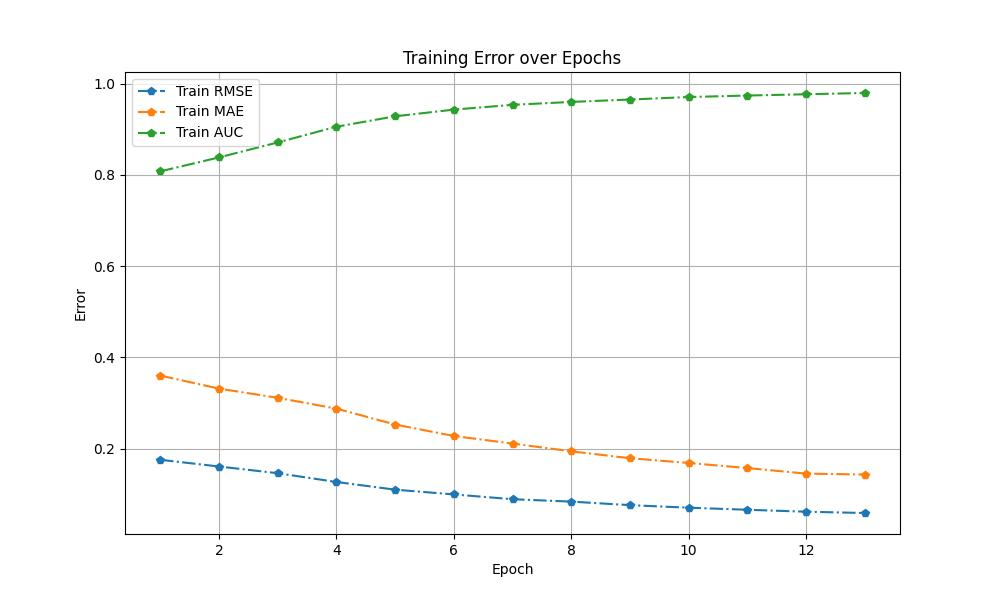
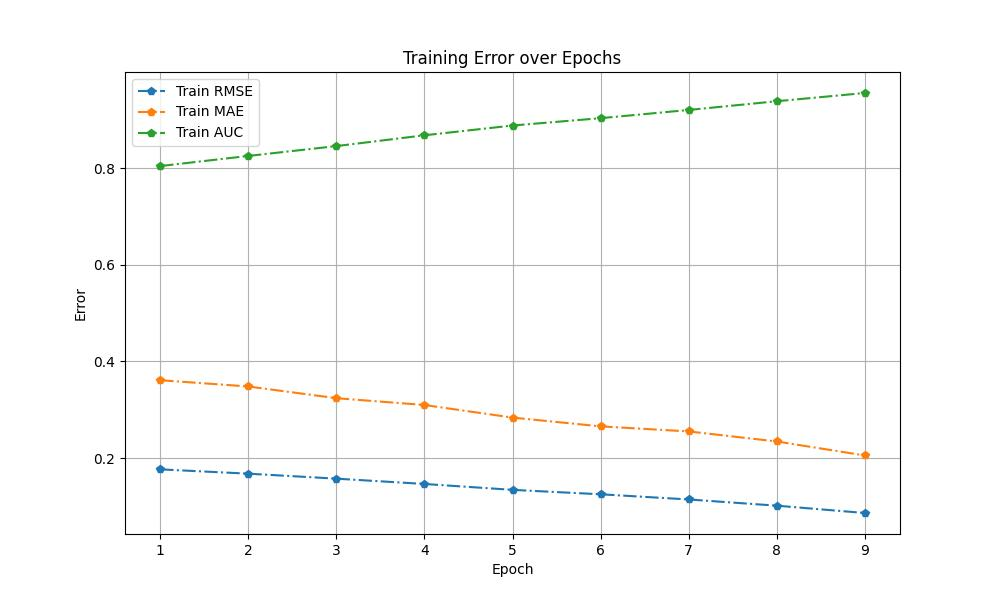
sota

diff --git a/Tools/Parameter.py b/Tools/Parameter.py
@@ -21,7 +21,7 @@ EM_mu_sigma_alpha_path = 'Output/EM_mu_sigma_alpha.pkl'
 
 # NCF path
 model_path = "Output/NCFmodel.pkl"
-early_stop = 10
+early_stop = 5
 
 # LSTM path
 lstm_path = "Output/LSTM.pkl"
@@ -37,7 +37,7 @@ user_similarity_matrices_path = "Output/UserSimMat.pkl"
 ncf_config = {
     "epoches": 50,
     "lr": 1e-3,
-    "batch_size": 512,
+    "batch_size": 256,
     "kwargs": {
         'embed_size':128,
         'hidden_nbs':[512, 1024, 512],
